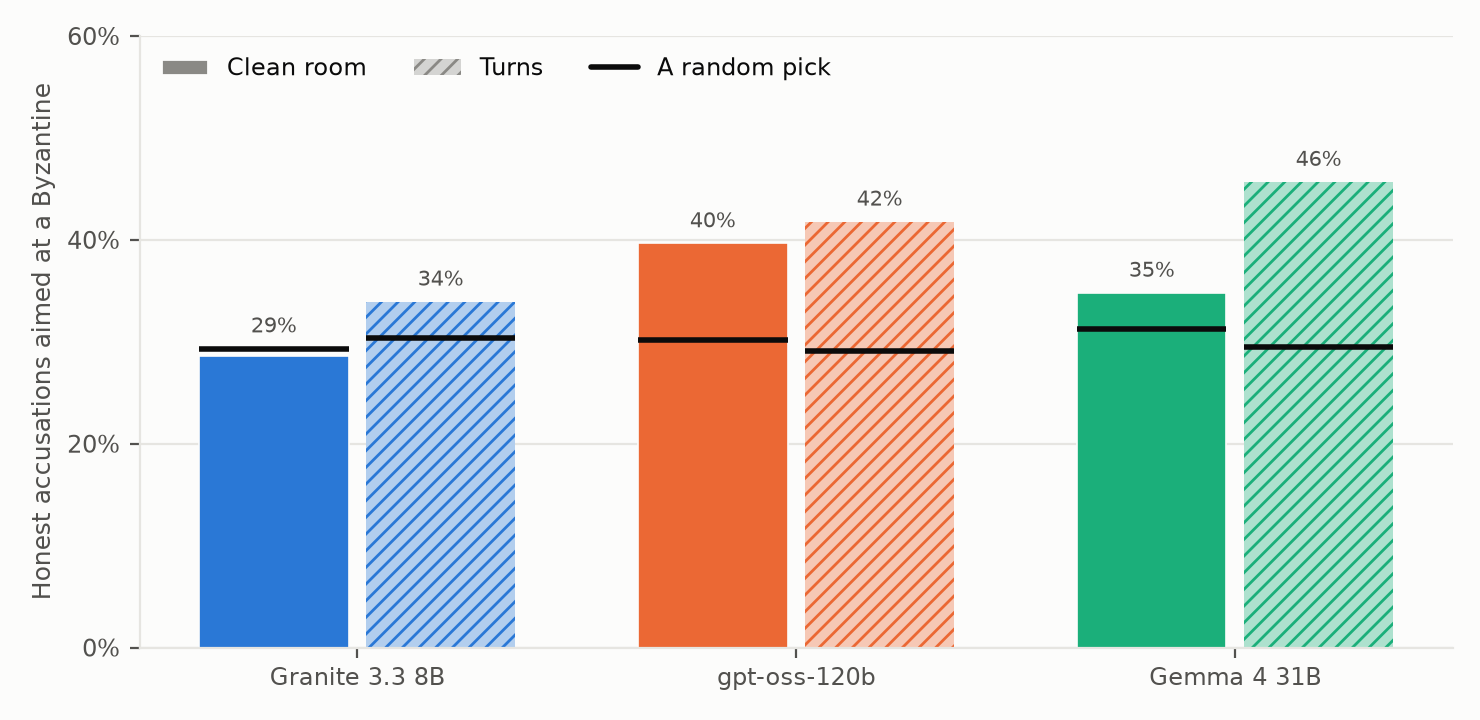
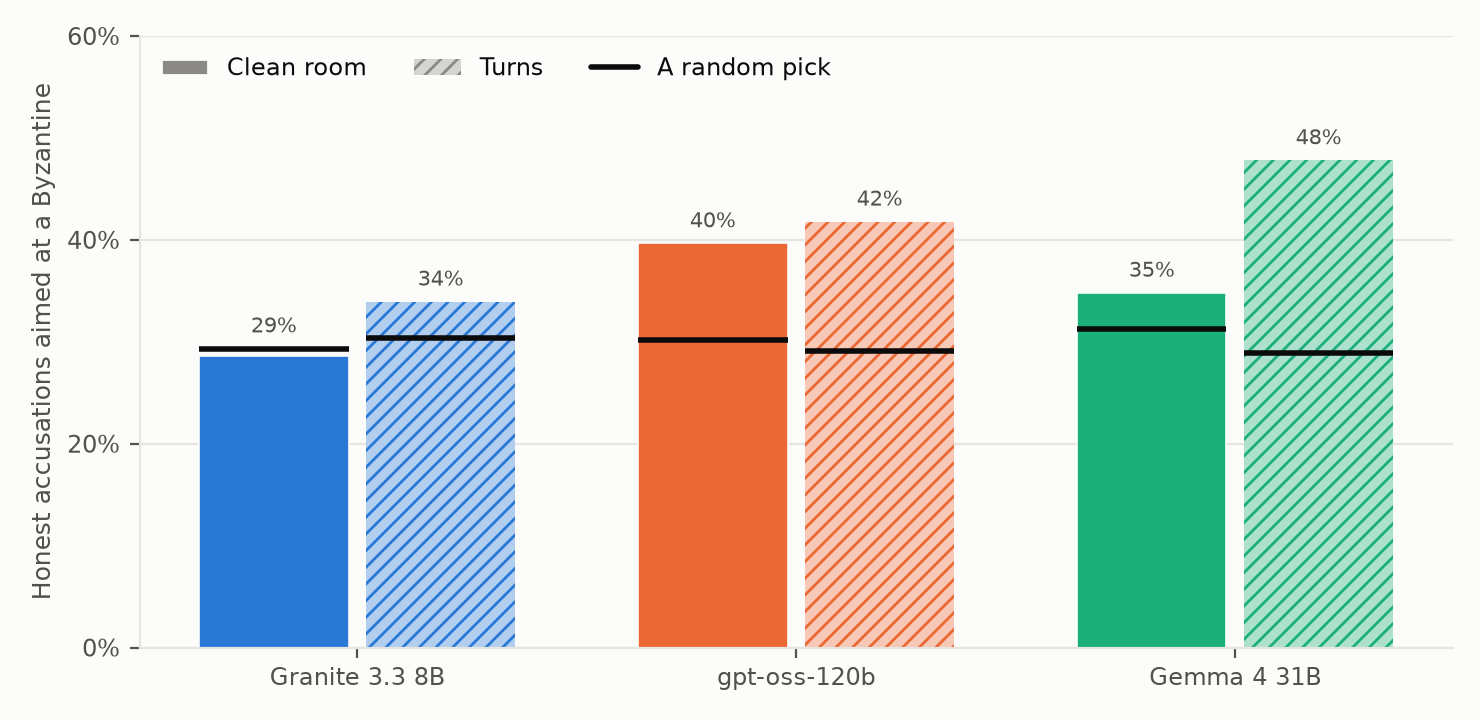
docs(situation-room): finish the Gemma sequential cell and correct the account of the slow game
The sequential game of seed 18 had played 3 meetings when it reached the 3600 s limit and finished in 264 s on a rerun, so Gemma has 220 finished games. Gemma no discussion against turns is now p = 0.056.

Changed region(s): [[0.8392, 0.1833, 0.9635, 0.275], [0.8392, 0.4583, 0.9635, 0.5194]]

diff --git a/docs/situation-room.md b/docs/situation-room.md
@@ -1,7 +1,7 @@
 # Situation Room
 
 Design for timed, simultaneous discussion in Agents Among Us, plus the experiments that use it.
-Status is design, two HiPerGator pilots (vLLM concurrency and the audio stack), and a text-only integration. Phases 0 and 1a are done. The room, the three text renderers, the tick loop, the vote tick, an in-process transport and a scripted adapter exist and are tested with no GPU, as do `core/audio/` and the benchmark scripts. The engine runs a full game in `timed` mode with the existing honest and Byzantine agents, through an adapter, against any OpenAI-compatible server, and a smoke test ran 2 rounds of 10 agents through `main.py` against a fake server. P2 has played 659 games against models served on HiPerGator (Granite 3.3 8B, gpt-oss-120b and Gemma 4 31B, with one more Gemma game that timed out before its first move), and the `File` transport is still to do. Work happens on the `situation-room` branch.
+Status is design, two HiPerGator pilots (vLLM concurrency and the audio stack), and a text-only integration. Phases 0 and 1a are done. The room, the three text renderers, the tick loop, the vote tick, an in-process transport and a scripted adapter exist and are tested with no GPU, as do `core/audio/` and the benchmark scripts. The engine runs a full game in `timed` mode with the existing honest and Byzantine agents, through an adapter, against any OpenAI-compatible server, and a smoke test ran 2 rounds of 10 agents through `main.py` against a fake server. P2 has played 660 games against models served on HiPerGator (Granite 3.3 8B, gpt-oss-120b and Gemma 4 31B), and the `File` transport is still to do. Work happens on the `situation-room` branch.
 
 ## Goal
 
@@ -518,7 +518,7 @@ The reasoning models (gpt-oss and Magistral) spend part of `max_tokens` on think
 Run the models that fit on one GPU first.
 
 P2 runs from `scripts/hipergator/run_p2.sbatch`. One job serves one model on one GPU and plays the grid 6 games at a time, each game in its own `main.py` process. A seed visits all 11 protocols before the next seed starts, so an interrupted run still has paired cells, and a job resubmitted with the same `TAG` plays only the missing games. The scenario seed fixes the start rooms. Sampling is not seeded, so games with one seed diverge after the first move, and the pairing controls the start and not the whole game.
-The pilot plays 5 seeds per cell with thought capture off and 10 rounds, which is 55 games per model. It started with Granite 3.3 8B and Gemma 4 31B, the models that fit on one RTX PRO 6000 and were measured above, and gpt-oss-120b joined as the large model at low reasoning effort with a limit of 768 tokens. All three models were extended to 20 seeds, which is 220 games each. One Gemma game, the sequential game of seed 18, made no progress after it started and timed out, so Gemma has 219 finished games. Llama 3.3 70B waits for two GPUs.
+The pilot plays 5 seeds per cell with thought capture off and 10 rounds, which is 55 games per model. It started with Granite 3.3 8B and Gemma 4 31B, the models that fit on one RTX PRO 6000 and were measured above, and gpt-oss-120b joined as the large model at low reasoning effort with a limit of 768 tokens. All three models were extended to 20 seeds, which is 220 games each. One Gemma game, the sequential game of seed 18, ran into the limit of 3,600 s per game and was played again, so every model has 220 finished games. Llama 3.3 70B waits for two GPUs.
 The reference model for P3 is chosen after P2, from the models whose win rate is stable across protocols.
 
 Every protocol replays the same seeds, so scenarios differ only in how agents talk.
@@ -537,7 +537,7 @@ Sizing. At 50 games per cell the 95% interval on a win rate is about ±14 points
 
 ### P2 results
 
-The results come from three runs on one RTX PRO 6000 each, with 10 rounds, thought capture off, 6 games at a time and every agent required to vote. Granite 3.3 8B ran with its defaults (tag `v7-granite`, 220 games). gpt-oss-120b ran at low reasoning effort with a limit of 768 tokens (tag `v4-gpt-oss-120b`, 220 games). Gemma 4 31B ran with a limit of 1,024 tokens (tag `v6-gemma`, 220 games planned and 219 finished). The sequential game of seed 18 wrote the line that loads its config and nothing after it, and it ended at the limit of 3,600 s per game with no round played, so the sequential cell of Gemma has 19 games. The stall came before any model call, and its cause is not known. Earlier pilots of these models had defects that this section's runs removed, which were the skipped votes, the quotation cleaning, the context limit, Gemma's cut thinking and a shared config file. Their numbers are not kept.
+The results come from three runs on one RTX PRO 6000 each, with 10 rounds, thought capture off, 6 games at a time and every agent required to vote. Granite 3.3 8B ran with its defaults (tag `v7-granite`, 220 games). gpt-oss-120b ran at low reasoning effort with a limit of 768 tokens (tag `v4-gpt-oss-120b`, 220 games). Gemma 4 31B ran with a limit of 1,024 tokens (tag `v6-gemma`, 220 games). The sequential game of seed 18 had played 3 meetings and 30 statements and was in round 10 when it reached the limit of 3,600 s per game, and the longest Gemma game that finished took 3,069 s. It was played again with the same tag and code, alone on its server, and finished in 264 s. The cause of the slow first run is not known. The result file keeps the row of the first run with return code -1, and the tables and figures use the row that finished. Earlier pilots of these models had defects that this section's runs removed, which were the skipped votes, the quotation cleaning, the context limit, Gemma's cut thinking and a shared config file. Their numbers are not kept.
 
 | Model | Setting | Games | Honest wins | Honest vote accuracy | Meetings redone per game | API errors | Reasoning share | Minutes per game |
 |---|---|---|---|---|---|---|---|---|
@@ -548,7 +548,7 @@ The results come from three runs on one RTX PRO 6000 each, with 10 rounds, thoug
 | gpt-oss-120b | turns | 20 | 6 (30%) | 45% | 0.10 | 0 | 56% | 4.7 |
 | gpt-oss-120b | timed room | 180 | 64 (36%) | 44% | 0.00 | 0 | 64% | 5.1 |
 | Gemma 4 31B | no discussion | 20 | 14 (70%) | 69% | 0.00 | 0 | 97% | 26.5 |
-| Gemma 4 31B | turns | 19 | 6 (32%) | 47% | 0.00 | 0 | 41% | 19.5 |
+| Gemma 4 31B | turns | 20 | 7 (35%) | 50% | 0.00 | 0 | 40% | 18.8 |
 | Gemma 4 31B | timed room | 180 | 67 (37%) | 39% | 0.00 | 0 | 29% | 22.3 |
 
 Honest vote accuracy is the share of honest votes that went to a Byzantine, and a random pick among the other agents would score about 22% to 30%. A skipped vote no longer exists, so a meeting that lacks a vote is rewound, and the table gives the rewinds per game. No game stopped for a missing vote and no call failed with an API error. Gemma returned an empty reply 10 times in 46,445 calls, 8 of them with no discussion, where its thinking is longest. The reasoning share is the share of completion tokens that are reasoning, from the server where it reports them and from the think blocks in the reply for Granite and Gemma.
@@ -566,10 +566,10 @@ Figure 5. Granite 3.3 8B in each protocol, with 20 games in each cell. The inter
 Figure 6. Accuracy of the honest votes that were cast, and the meetings rewound per game, by setting.
 
 - Only the cells of the timed rooms (180 games each) have narrow intervals. gpt-oss wins 36% of its timed games (95% interval 29% to 43%), Gemma 37% (30% to 44%) and Granite 25% (19% to 32%). The no-discussion and turn cells have 19 to 20 games and their intervals run 27 to 40 points wide.
-- Granite and Gemma show a cost for discussion. Granite wins 10 of 20 games with no discussion (50%, interval 30% to 70%), 2 of 20 in turns (10%, 3% to 30%) and 45 of 180 in timed rooms (25%). Gemma wins 14 of 20 (70%, 48% to 85%), 6 of 19 in turns (32%, 15% to 54%) and 67 of 180 in timed rooms (37%). A Fisher exact test of no discussion against turns gives p = 0.014 for Granite and p = 0.026 for Gemma, and of no discussion against timed rooms p = 0.031 and p = 0.007. The tests treat the games as independent and were not adjusted for the 6 contrasts of the 3 models. Only the Gemma contrast with timed rooms stays below 0.05 after a Bonferroni correction (0.05 / 6 = 0.008), so the tests are a guide and the cluster-robust intervals are still to do.
+- Granite and Gemma win fewer games with discussion than with none. Granite wins 10 of 20 games with no discussion (50%, interval 30% to 70%), 2 of 20 in turns (10%, 3% to 30%) and 45 of 180 in timed rooms (25%). Gemma wins 14 of 20 (70%, 48% to 85%), 7 of 20 in turns (35%, 18% to 57%) and 67 of 180 in timed rooms (37%). A Fisher exact test of no discussion against turns gives p = 0.014 for Granite and p = 0.056 for Gemma, and of no discussion against timed rooms p = 0.031 and p = 0.007. The tests treat the games as independent and were not adjusted for the 6 contrasts of the 3 models. Only the Gemma contrast with timed rooms stays below 0.05 after a Bonferroni correction (0.05 / 6 = 0.008), so the tests are a guide and the cluster-robust intervals are still to do.
 - gpt-oss shows no cost. It wins 3 of 20 games with no discussion (15%, 5% to 36%), 6 of 20 in turns (30%, 15% to 52%) and 64 of 180 in timed rooms (36%), which points the other way, and p = 0.45 for no discussion against turns and p = 0.081 against timed rooms. No setting beats another for gpt-oss in these data.
-- Honest vote accuracy is 32% to 59% for Granite, 35% to 45% for gpt-oss and 39% to 69% for Gemma. Granite and Gemma vote more accurately with no discussion (59% on 246 votes and 69% on 240 votes) than with it (Granite 32% in turns and 38% in timed rooms, Gemma 47% and 39%), and each of these values is above the 22% to 30% of a random pick.
-- A game takes 2.4 to 4.3 minutes for Granite, 3.1 to 5.1 for gpt-oss and 19.5 to 26.5 for Gemma, whose reasoning share is 97% when there is no discussion and 29% in the timed room.
+- Honest vote accuracy is 32% to 59% for Granite, 35% to 45% for gpt-oss and 39% to 69% for Gemma. Granite and Gemma vote more accurately with no discussion (59% on 246 votes and 69% on 240 votes) than with it (Granite 32% in turns and 38% in timed rooms, Gemma 50% and 39%), and each of these values is above the 22% to 30% of a random pick.
+- A game takes 2.4 to 4.3 minutes for Granite, 3.1 to 5.1 for gpt-oss and 18.8 to 26.5 for Gemma, whose reasoning share is 97% when there is no discussion and 29% in the timed room.
 
 ### What agents say and believe
 
@@ -589,8 +589,8 @@ What each role says. Each cell is the share of statements with that kind of spee
 | gpt-oss-120b | turns | Honest | 510 | 80 | 99% | 93% | 35% | 95% | 0% | - | 0% |
 | Gemma 4 31B | clean | Byzantine | 2500 | 27 | 46% | 28% | 3% | 7% | 21% | 4% | 89% |
 | Gemma 4 31B | clean | Honest | 5922 | 29 | 69% | 54% | 2% | 23% | 13% | 2% | 84% |
-| Gemma 4 31B | turns | Byzantine | 146 | 66 | 82% | 39% | 25% | 46% | 19% | - | 3% |
-| Gemma 4 31B | turns | Honest | 406 | 66 | 87% | 36% | 13% | 76% | 6% | - | 9% |
+| Gemma 4 31B | turns | Byzantine | 152 | 66 | 80% | 38% | 24% | 47% | 18% | - | 3% |
+| Gemma 4 31B | turns | Honest | 432 | 66 | 88% | 37% | 13% | 77% | 6% | - | 10% |
 
 ![Speech acts of honest and Byzantine agents in the clean room for three models](figures/text_speech_acts.png)
 
@@ -608,7 +608,7 @@ What agents believe and how well they hear.
 |---|---|---|---|---|---|---|---|---|---|
 | Granite 3.3 8B | 29% | 39% | 29% (29%) | 34% (30%) | 13% (13%) | 10% (n=215) | 15% (n=474) | 39% (n=725) | 58% (74%) |
 | gpt-oss-120b | 20% | 20% | 40% (30%) | 42% (29%) | 10% (14%) | 6% (n=508) | 10% (n=516) | 43% (n=814) | 76% (77%) |
-| Gemma 4 31B | 17% | 30% | 35% (31%) | 46% (29%) | 9% (15%) | 8% (n=214) | 8% (n=323) | 55% (n=708) | 78% (76%) |
+| Gemma 4 31B | 17% | 30% | 35% (31%) | 48% (29%) | 9% (15%) | 8% (n=214) | 8% (n=323) | 55% (n=708) | 78% (77%) |
 
 Chance is the share of Byzantines among the other active agents at the time of the statement. An honest agent that is told nothing would aim 28% to 32% of its accusations at a Byzantine.
 
@@ -632,7 +632,7 @@ Figure 11. Honest votes for an honest candidate by who accused that candidate in
 |---|---|---|---|---|---|
 | Granite 3.3 8B | 79% | 62% | 40% | 36 | 2.8 |
 | gpt-oss-120b | 92% | 49% | 45% | 42 | 3.9 |
-| Gemma 4 31B | 90% | 52% | 58% | 40 | 3.6 |
+| Gemma 4 31B | 90% | 52% | 57% | 40 | 3.6 |
 
 ![How often the accused agent speaks again and names the accuser, in the room and in turns](figures/text_listening.png)
 
